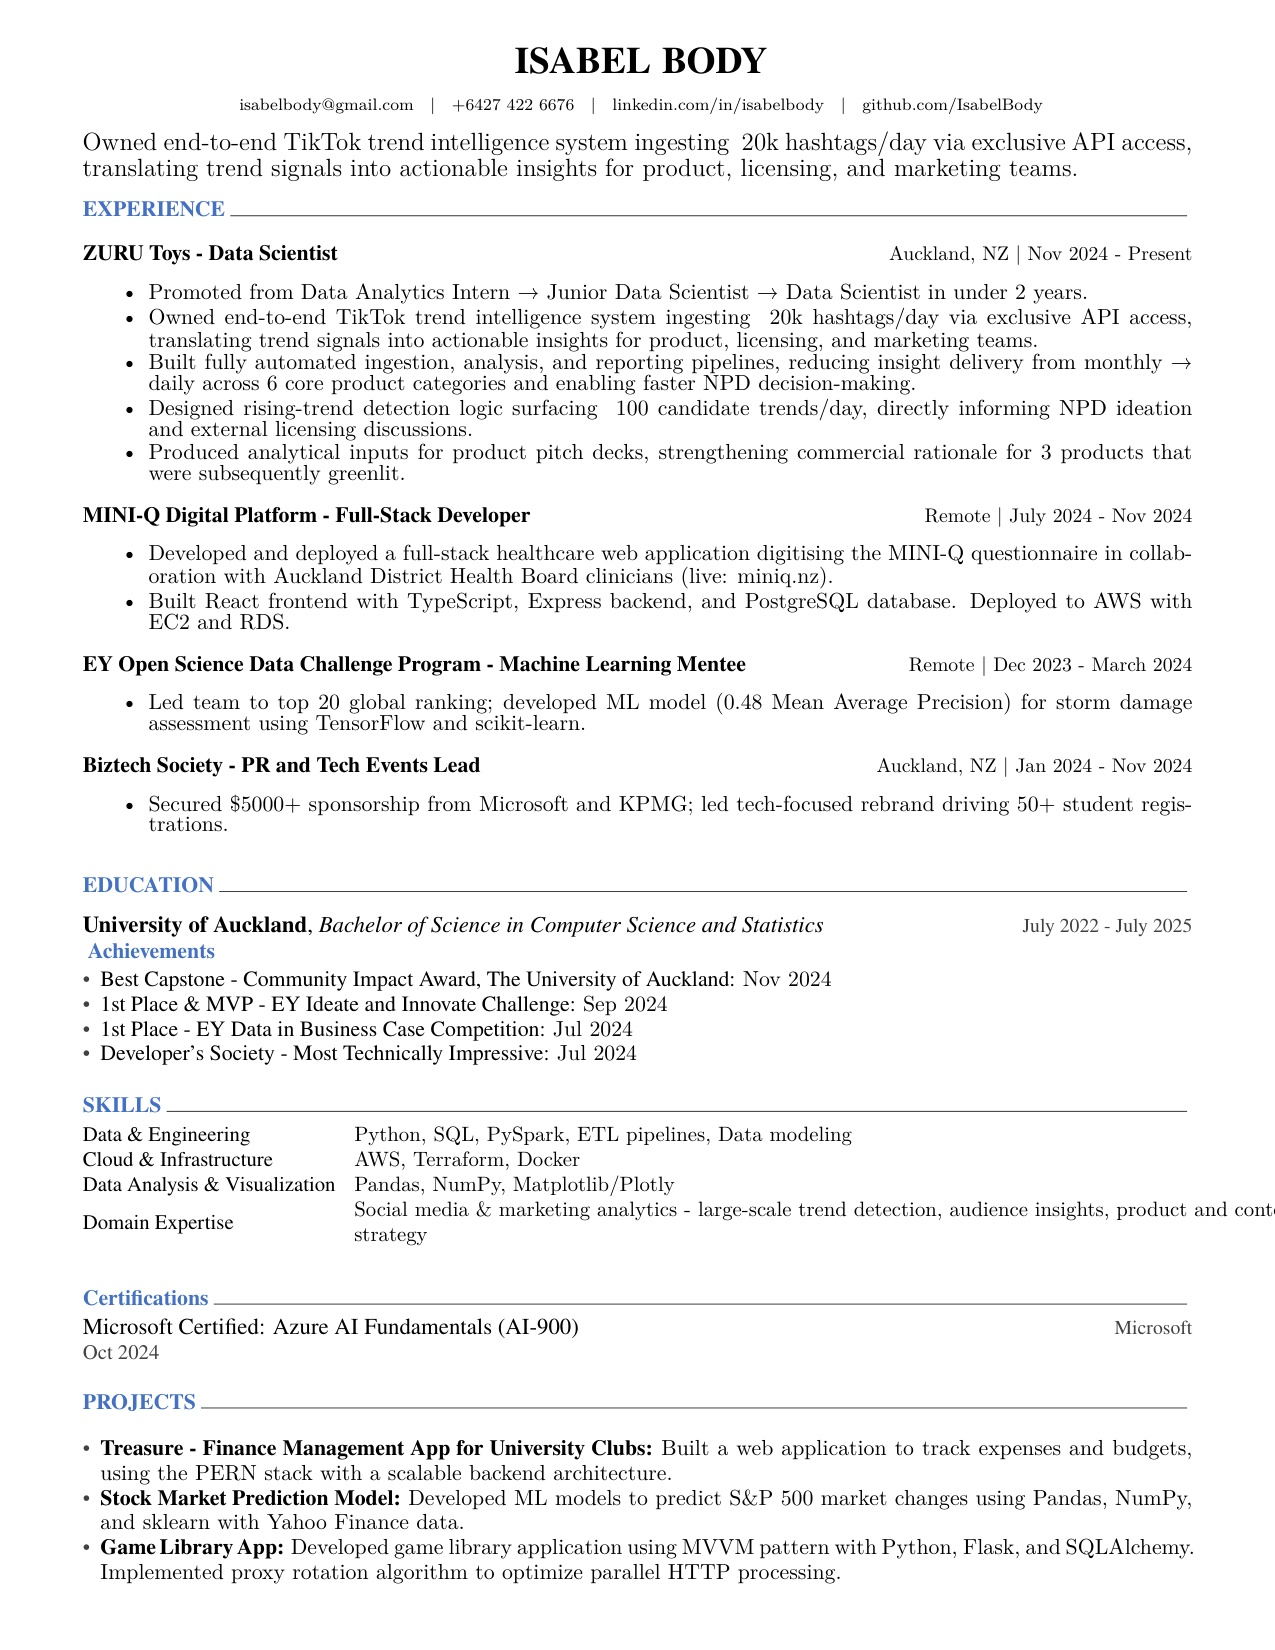
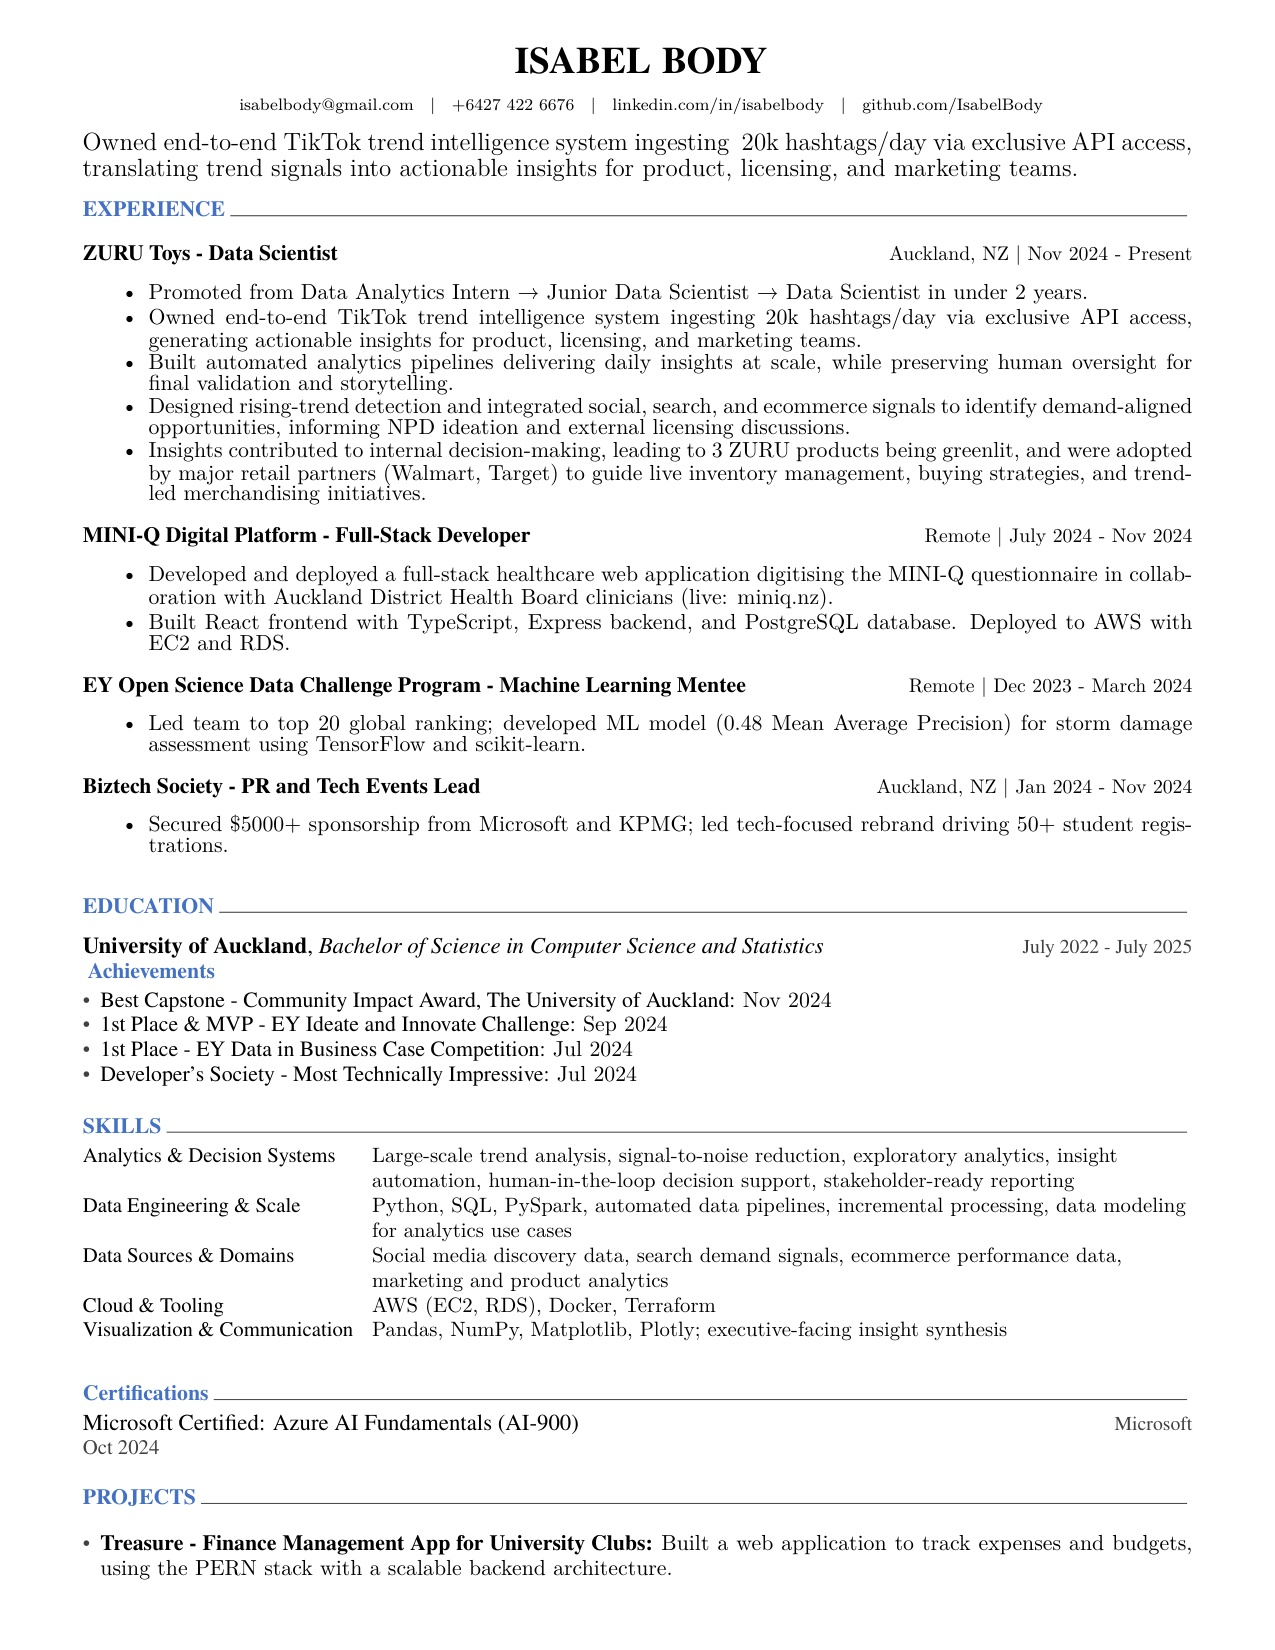
feat: updated zuru description with retailer achievements

diff --git a/src/cv/experience.tex b/src/cv/experience.tex
@@ -15,10 +15,10 @@
     {
       \begin{cvitems} % Description(s) of tasks/responsibilities
         \item {Promoted from Data Analytics Intern → Junior Data Scientist → Data Scientist in under 2 years.}
-        \item {Owned end-to-end TikTok trend intelligence system ingesting ~20k hashtags/day via exclusive API access, translating trend signals into actionable insights for product, licensing, and marketing teams.}
-        \item {Built fully automated ingestion, analysis, and reporting pipelines, reducing insight delivery from monthly → daily across 6 core product categories and enabling faster NPD decision-making.}
-        \item {Designed rising-trend detection logic surfacing ~100 candidate trends/day, directly informing NPD ideation and external licensing discussions.}
-        \item {Produced analytical inputs for product pitch decks, strengthening commercial rationale for 3 products that were subsequently greenlit.}
+        \item {Owned end-to-end TikTok trend intelligence system ingesting 20k hashtags/day via exclusive API access, generating actionable insights for product, licensing, and marketing teams.}
+        \item {Built automated analytics pipelines delivering daily insights at scale, while preserving human oversight for final validation and storytelling.}
+        \item {Designed rising-trend detection and integrated social, search, and ecommerce signals to identify demand-aligned opportunities, informing NPD ideation and external licensing discussions.}
+        \item {Insights contributed to internal decision-making, leading to 3 ZURU products being greenlit, and were adopted by major retail partners (Walmart, Target) to guide live inventory management, buying strategies, and trend-led merchandising initiatives.}
       \end{cvitems}
     }
   \vspace{3mm}

diff --git a/src/cv/skills.tex b/src/cv/skills.tex
@@ -10,22 +10,27 @@
 
 %---------------------------------------------------------
   \cvskill
-    {Data \& Engineering} % Category
-    {Python, SQL, PySpark, ETL pipelines, Data modeling}
+    {Analytics \& Decision Systems} % Category
+    {Large-scale trend analysis, signal-to-noise reduction, exploratory analytics, insight automation, human-in-the-loop decision support, stakeholder-ready reporting}
 
 %---------------------------------------------------------
   \cvskill
-    {Cloud \& Infrastructure} % Category
-    {AWS, Terraform, Docker}
+    {Data Engineering \& Scale} % Category
+    {Python, SQL, PySpark, automated data pipelines, incremental processing, data modeling for analytics use cases}
 
 %---------------------------------------------------------
   \cvskill
-    {Data Analysis \& Visualization} % Category
-    {Pandas, NumPy, Matplotlib/Plotly}
+    {Data Sources \& Domains} % Category
+    {Social media discovery data, search demand signals, ecommerce performance data, marketing and product analytics}
 
 %---------------------------------------------------------
   \cvskill
-    {Domain Expertise} % Category
-    {Social media \& marketing analytics - large-scale trend detection, audience insights, product and content strategy}
+    {Cloud \& Tooling} % Category
+    {AWS (EC2, RDS), Docker, Terraform}
+
+%---------------------------------------------------------
+  \cvskill
+    {Visualization \& Communication} % Category
+    {Pandas, NumPy, Matplotlib, Plotly; executive-facing insight synthesis}
 
 \end{cvskills}

diff --git a/src/cv/languages.tex b/src/cv/languages.tex
@@ -12,18 +12,9 @@
   \cvskill
     {English} % Language
     {Professional proficiency} % Type
-
 %---------------------------------------------------------
   \cvskill
-    {Tamil} % Language
-    {Native proficiency} % Type
-%---------------------------------------------------------
-  \cvskill
-    {French} % Language
-    {Intermediate proficiency} % Type
-%---------------------------------------------------------
-  \cvskill
-    {Hindi} % Language
+    {Mandarin} %  one day!
     {Basic proficiency} % Type
 
 \end{cvskills}

diff --git a/README.md b/README.md
@@ -1,6 +1,8 @@
 # Isabel Body - Resume
 
-> **[Download Resume PDF](IsabelBodyResume.pdf)** | **[View Preview](IsabelBodyResume.jpg)**
+![Resume Preview](IsabelBodyResume.jpg)
+
+> **[Download Resume PDF](IsabelBodyResume.pdf)**
 
 ---
 
@@ -8,7 +10,7 @@
 
 The compiled resume PDF is available directly in this repository:
 - **[IsabelBodyResume.pdf](IsabelBodyResume.pdf)** - Full resume in PDF format
-- **[IsabelBodyResume.jpg](IsabelBodyResume.jpg)** - Preview image (automatically generated during compilation)
+- **IsabelBodyResume.jpg** - Preview image (automatically generated during compilation)
 
 ## About This Resume
 
